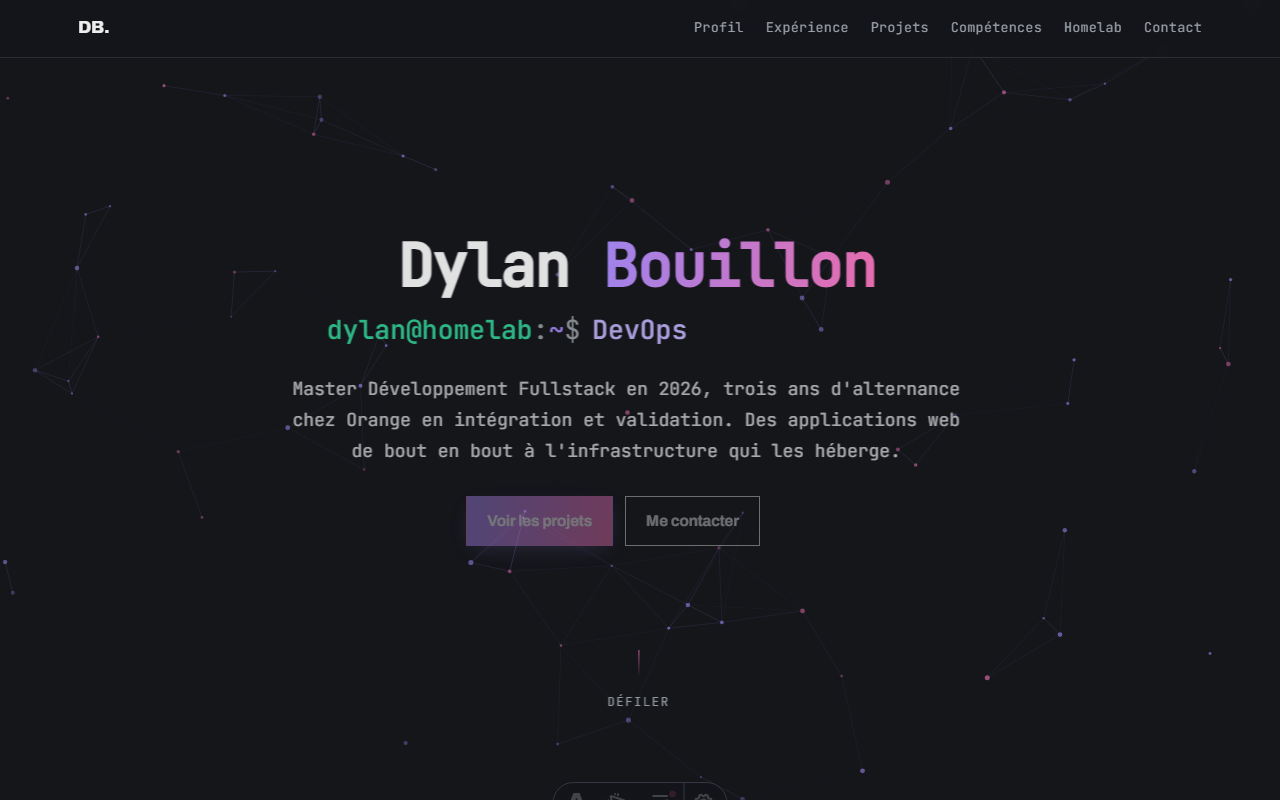
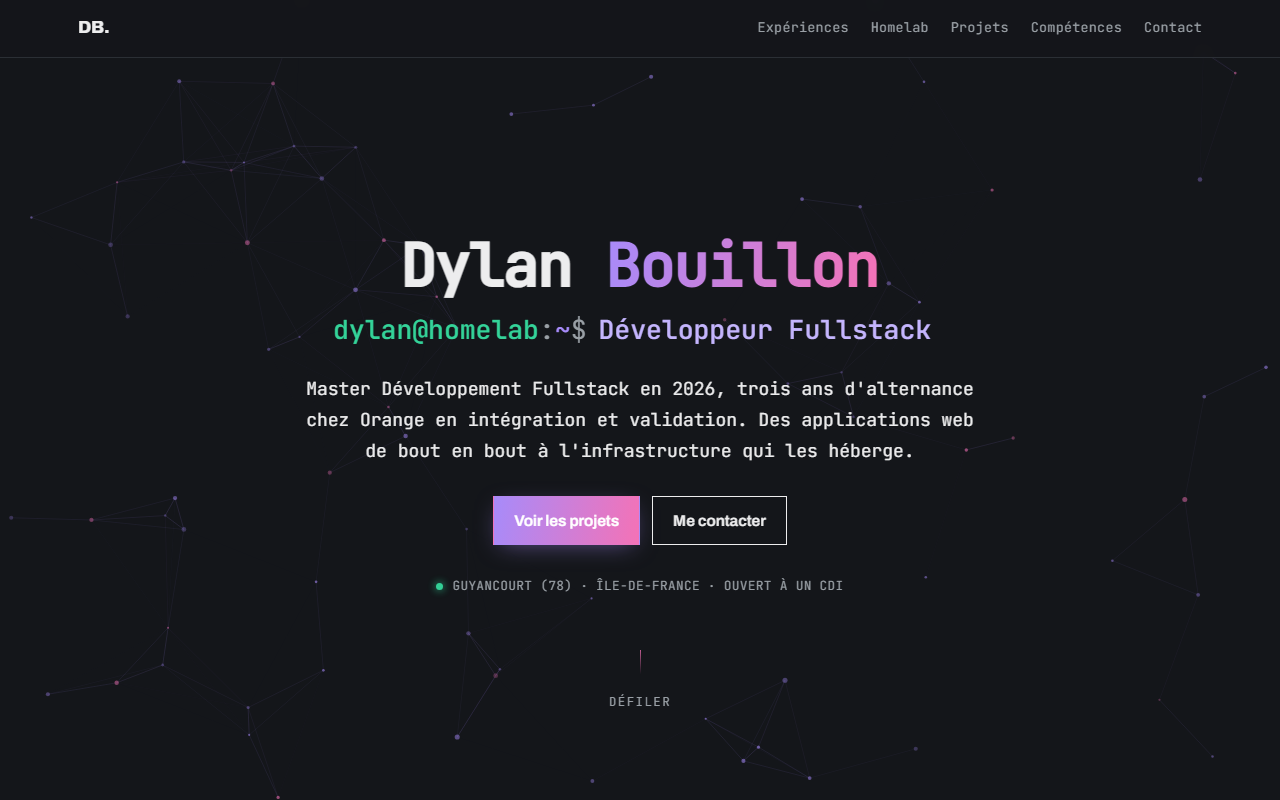
Corrige trois details du portfolio
Remplace les logos Proxmox, Nginx et WordPress. C'etaient les versions
logotype de Devicon, illisibles a 26 pixels : Proxmox se reduisait a quelques
points et WordPress disparaissait presque sur fond sombre. Les marques seules,
aux couleurs officielles, prennent leur place et pesent trois a sept fois
moins.

Ajoute Formations a la navigation : la section n'etait atteignable qu'en
faisant defiler la page.

Verse l'outil de capture des apercus dans deploy/. Les images de public/shots/
sont figees et ne suivent pas les sites qu'elles montrent ; le script les
regenere en une commande. Il pilote un navigateur sans interface via CDP
plutot que par --screenshot, sans quoi une application React est capturee
avant son affichage.

diff --git a/deploy/README.md b/deploy/README.md
@@ -111,6 +111,27 @@ systemd-run --on-calendar='daily' --unit=portfolio-deploy /opt/portfolio/deploy/
 | `deploy.sh`                  | `/opt/portfolio/deploy/deploy.sh`          |
 | `nginx.conf`                 | `/etc/nginx/sites-available/portfolio`     |
 | `traefik/portfolio.yml`      | `/opt/traefik/config/portfolio.yml` (LXC 102) |
+| `capture-apercus.mjs`        | outil local, ne part pas sur le serveur    |
+
+## Apercus des cartes projet
+
+Les cartes des projets reellement heberges affichent une capture du site, dans
+`public/shots/`. Ce sont des images figees : elles ne se mettent pas a jour
+toutes seules quand un site change. Pour les regenerer, depuis un poste Windows
+avec Edge ou Chrome :
+
+```bash
+node deploy/capture-apercus.mjs
+```
+
+Le script pilote un navigateur sans interface via CDP, ce qui laisse aux pages
+React le temps de s'afficher, la ou un simple `--screenshot` capture une page
+blanche. Le portfolio est pris depuis le site en ligne : pour figer une refonte
+pas encore deployee, lancer `npm run dev` et pointer l'url du script sur
+`http://localhost:4321`.
+
+RoissyShare demande une authentification, la capture montre donc son ecran de
+connexion, ce que voit un visiteur.
 
 ## CI/CD
 
